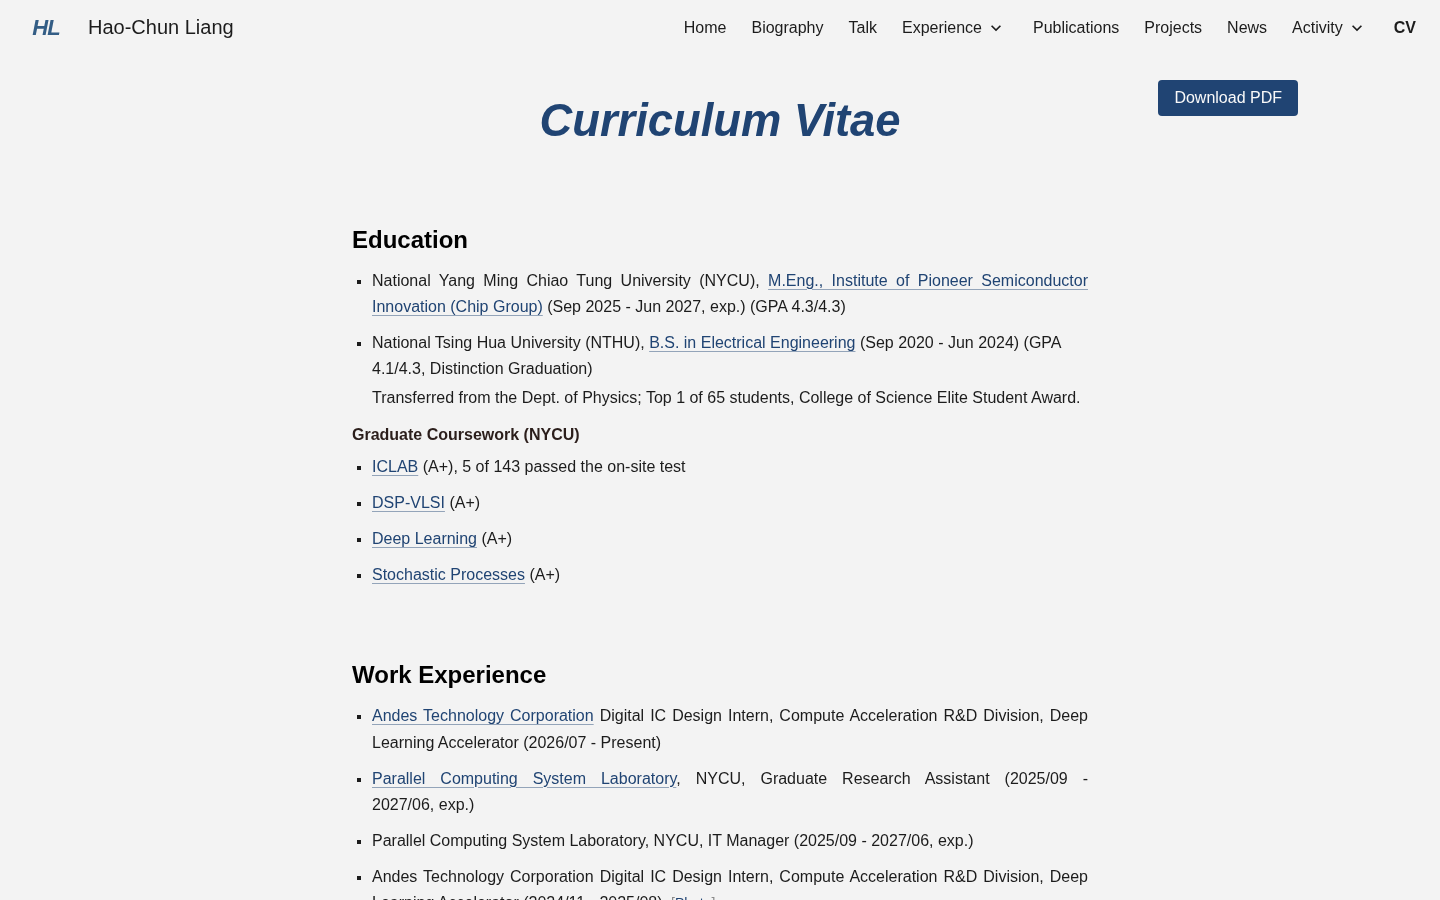
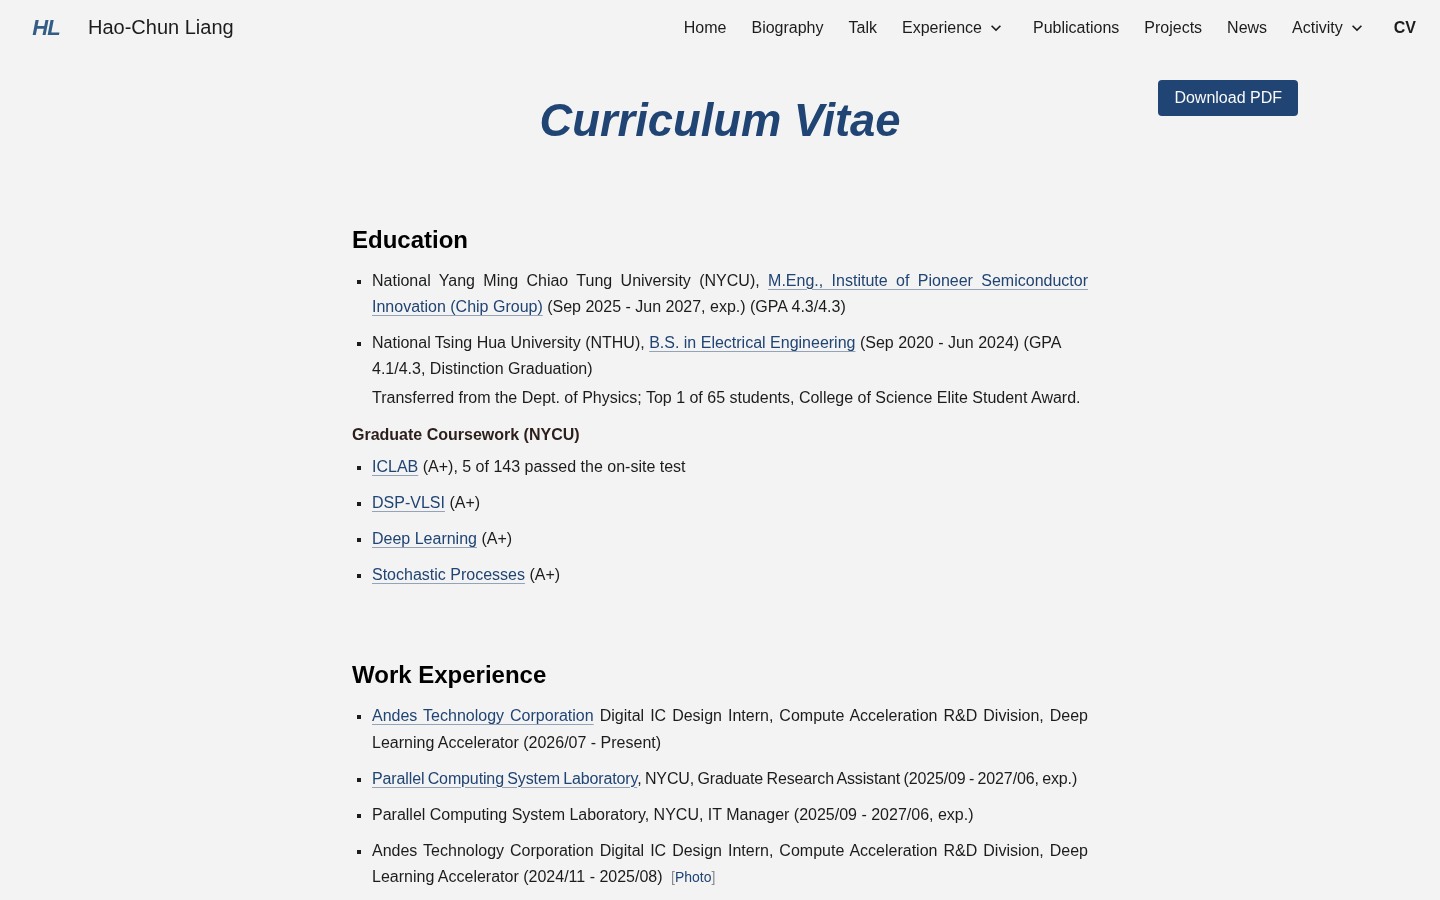
No short last lines at any window size; drop Iron Fans video and one stage photo; center Back to Home
- gsite.js: every text block whose last line fills under a third of its
  width is re-set on load and on resize: slight tightening first, balanced
  lines for short left-aligned blocks, slight loosening, then balanced lines.
  Scanned 10 widths x all pages: 0 short tails
- Dance: remove the 2017 'Iron Fans' video and hs-380 (files deleted)
- 'Back to Home' is centered again (justify rule had overridden .center)
- gsite.js v12, CSS v35

Claude-Session: https://claude.ai/code/session_01YYQQxzKC9fV2djn5XGgtNn

Changed region(s): [[0.25, 0.84, 0.75, 1.0]]

diff --git a/assets/gsite.js b/assets/gsite.js
@@ -167,6 +167,94 @@
     });
   })();
 
+  // No short last lines (owner ruling): a block whose last line fills less
+  // than a third of its width is re-set, at every window size. First try a
+  // barely visible tightening so the tail climbs onto the line above, then
+  // balanced lines for short left-aligned blocks, then a barely visible
+  // loosening (mostly word spacing) so more words carry down, and only then
+  // balanced lines (left-aligned, so justify cannot stretch them).
+  (function () {
+    var MIN = 0.34;
+    var TIGHT = [[-0.004, -0.03], [-0.008, -0.06], [-0.012, -0.09], [-0.016, -0.12]];
+    var LOOSE = [[0, 0.05], [0.003, 0.1], [0.006, 0.15], [0.01, 0.2]];
+    var BLOCK = /^(block|list-item|flex|grid|table)/;
+    var sel = 'main p, main li, main .sub, main figcaption, .identity p, .site-footer .contact p, .site-footer .copyright';
+
+    function leaf(el) {
+      if (el.closest('.site-nav, .chips, .slide, .hero')) return false;
+      for (var c = el.firstElementChild; c; c = c.nextElementSibling) {
+        if (BLOCK.test(getComputedStyle(c).display)) return false;
+      }
+      return true;
+    }
+    // Line boxes of el: [{left, right}] top to bottom.
+    function lines(el) {
+      var r = document.createRange();
+      r.selectNodeContents(el);
+      var rows = [];
+      Array.prototype.forEach.call(r.getClientRects(), function (b) {
+        if (b.width < 1) return;
+        var row = null;
+        for (var i = 0; i < rows.length; i++) {
+          if (Math.abs(rows[i].mid - (b.top + b.bottom) / 2) < b.height / 2) { row = rows[i]; break; }
+        }
+        if (!row) rows.push({ mid: (b.top + b.bottom) / 2, left: b.left, right: b.right });
+        else { row.left = Math.min(row.left, b.left); row.right = Math.max(row.right, b.right); }
+      });
+      rows.sort(function (a, b) { return a.mid - b.mid; });
+      return rows;
+    }
+    function measure(el) {
+      var cs = getComputedStyle(el), box = el.getBoundingClientRect();
+      var left = box.left + parseFloat(cs.paddingLeft), width = el.clientWidth - parseFloat(cs.paddingLeft) - parseFloat(cs.paddingRight);
+      var ls = lines(el);
+      if (ls.length < 2 || width <= 0) return { n: ls.length, ok: true };
+      var tail = (ls[ls.length - 1].right - left) / width;
+      return { n: ls.length, ok: tail >= MIN };
+    }
+    function setSpacing(el, base, d) {
+      var fs = parseFloat(getComputedStyle(el).fontSize);
+      el.style.letterSpacing = (base + d[0] * fs) + 'px';
+      el.style.wordSpacing = (d[1] * fs) + 'px';
+    }
+    function fix(el) {
+      el.style.letterSpacing = el.style.wordSpacing = el.style.textWrap = el.style.textAlign = '';
+      var m = measure(el);
+      if (m.ok) return;
+      var ls0 = parseFloat(getComputedStyle(el).letterSpacing) || 0, i, t;
+      for (i = 0; i < TIGHT.length; i++) {
+        setSpacing(el, ls0, TIGHT[i]);
+        t = measure(el);
+        if (t.n < m.n && t.ok) return;
+      }
+      // Left-aligned blocks of a few lines look most natural balanced
+      var justified = getComputedStyle(el).textAlign === 'justify';
+      if (!justified && m.n <= 4) {
+        el.style.letterSpacing = el.style.wordSpacing = '';
+        el.style.textWrap = 'balance';
+        if (measure(el).ok) return;
+        el.style.textWrap = '';
+      }
+      for (i = 0; i < LOOSE.length; i++) {
+        setSpacing(el, ls0, LOOSE[i]);
+        t = measure(el);
+        if (t.ok && t.n <= m.n + 1) return;
+      }
+      el.style.letterSpacing = el.style.wordSpacing = '';
+      el.style.textWrap = 'balance';
+      if (getComputedStyle(el).textAlign === 'justify') el.style.textAlign = 'start';
+    }
+    function run() {
+      var els = Array.prototype.filter.call(document.querySelectorAll(sel), leaf);
+      els.forEach(fix);
+    }
+    var timer;
+    function later() { clearTimeout(timer); timer = setTimeout(run, 120); }
+    if (document.fonts && document.fonts.ready) document.fonts.ready.then(run); else run();
+    window.addEventListener('load', run);
+    window.addEventListener('resize', later);
+  })();
+
   // Lightbox: photos and PDFs open in a dialog over the dimmed page.
   // Galleries get previous/next; PDFs open normally on phones, where
   // inline PDF viewing is unreliable.

diff --git a/activity/pop-dance-club/index.html b/activity/pop-dance-club/index.html
@@ -29,7 +29,7 @@
   <link rel="preconnect" href="https://fonts.googleapis.com">
   <link rel="preconnect" href="https://fonts.gstatic.com" crossorigin>
   <link rel="stylesheet" href="https://fonts.googleapis.com/css2?family=Noto+Serif+TC:wght@400;700&amp;display=swap">
-  <link rel="stylesheet" href="/assets/gsite.css?v=34">
+  <link rel="stylesheet" href="/assets/gsite.css?v=35">
 </head>
 <body>
 
@@ -164,17 +164,9 @@
         </button>
         <figcaption><strong>“現代舞畫”, my first try at a new dance style</strong><span class="yt-title">YouTube: <a href="https://www.youtube.com/watch?v=2gs8uw9oSkM" target="_blank" rel="noopener">現代舞畫</a></span></figcaption>
       </figure>
-      <figure class="video">
-        <button class="yt-facade" type="button" data-yt="7fVPnzR2eZY" aria-label="Play video: “鐵扇威揚” (Iron Fans)">
-          <img src="/images/activity/tieshan-2017.jpg" alt="" width="1280" height="720" loading="lazy">
-          <svg class="play" viewBox="0 0 68 48" aria-hidden="true"><path d="M66.5 7.7c-.8-2.9-3-5.2-5.9-6C55.3.3 34 .3 34 .3S12.7.3 7.4 1.7c-2.9.8-5.1 3.1-5.9 6C.1 13 .1 24 .1 24s0 11 1.4 16.3c.8 2.9 3 5.2 5.9 6C12.7 47.7 34 47.7 34 47.7s21.3 0 26.6-1.4c2.9-.8 5.1-3.1 5.9-6C67.9 35 67.9 24 67.9 24s0-11-1.4-16.3z" fill="#f00"/><path d="M45 24 27 14v20z" fill="#fff"/></svg>
-        </button>
-        <figcaption><strong>“鐵扇威揚” (Iron Fans)</strong><span class="yt-title">YouTube: <a href="https://www.youtube.com/watch?v=7fVPnzR2eZY" target="_blank" rel="noopener">鐵扇威揚</a></span></figcaption>
-      </figure>
     </div>
     <h3 class="group">Photos</h3>
     <div class="gallery">
-      <figure><a href="/images/activity/gallery/hs-380.jpg"><img src="/images/activity/gallery/hs-380.jpg" alt="Gango, Changhua Senior High" width="1080" height="608" loading="lazy"></a></figure>
       <figure><a href="/images/activity/gallery/hs-381.jpg"><img src="/images/activity/gallery/hs-381.jpg" alt="Gango, Changhua Senior High" width="1080" height="608" loading="lazy"></a></figure>
       <figure><a href="/images/activity/gallery/hs-391.jpg"><img src="/images/activity/gallery/hs-391.jpg" alt="Gango, Changhua Senior High" width="1080" height="1080" loading="lazy"></a></figure>
       <figure><a href="/images/activity/gallery/hs-397.jpg"><img src="/images/activity/gallery/hs-397.jpg" alt="Third place, High School Fight" width="1080" height="1080" loading="lazy"></a><figcaption>Third place, High School Fight</figcaption></figure>
@@ -209,7 +201,7 @@
   </div>
 </footer>
 
-<script src="/assets/gsite.js?v=10" defer></script>
+<script src="/assets/gsite.js?v=12" defer></script>
 <script src="/assets/pets.js?v=18" defer></script>
 </body>
 </html>

diff --git a/zh/activity/pop-dance-club/index.html b/zh/activity/pop-dance-club/index.html
@@ -29,7 +29,7 @@
   <link rel="preconnect" href="https://fonts.googleapis.com">
   <link rel="preconnect" href="https://fonts.gstatic.com" crossorigin>
   <link rel="stylesheet" href="https://fonts.googleapis.com/css2?family=Noto+Serif+TC:wght@400;700&amp;display=swap">
-  <link rel="stylesheet" href="/assets/gsite.css?v=34">
+  <link rel="stylesheet" href="/assets/gsite.css?v=35">
 </head>
 <body>
 
@@ -164,17 +164,9 @@
         </button>
         <figcaption><strong>「現代舞畫」，第一次嘗試的新舞風</strong><span class="yt-title">YouTube: <a href="https://www.youtube.com/watch?v=2gs8uw9oSkM" target="_blank" rel="noopener">現代舞畫</a></span></figcaption>
       </figure>
-      <figure class="video">
-        <button class="yt-facade" type="button" data-yt="7fVPnzR2eZY" aria-label="播放影片：「鐵扇威揚」">
-          <img src="/images/activity/tieshan-2017.jpg" alt="" width="1280" height="720" loading="lazy">
-          <svg class="play" viewBox="0 0 68 48" aria-hidden="true"><path d="M66.5 7.7c-.8-2.9-3-5.2-5.9-6C55.3.3 34 .3 34 .3S12.7.3 7.4 1.7c-2.9.8-5.1 3.1-5.9 6C.1 13 .1 24 .1 24s0 11 1.4 16.3c.8 2.9 3 5.2 5.9 6C12.7 47.7 34 47.7 34 47.7s21.3 0 26.6-1.4c2.9-.8 5.1-3.1 5.9-6C67.9 35 67.9 24 67.9 24s0-11-1.4-16.3z" fill="#f00"/><path d="M45 24 27 14v20z" fill="#fff"/></svg>
-        </button>
-        <figcaption><strong>「鐵扇威揚」</strong><span class="yt-title">YouTube: <a href="https://www.youtube.com/watch?v=7fVPnzR2eZY" target="_blank" rel="noopener">鐵扇威揚</a></span></figcaption>
-      </figure>
     </div>
     <h3 class="group">照片</h3>
     <div class="gallery">
-      <figure><a href="/images/activity/gallery/hs-380.jpg"><img src="/images/activity/gallery/hs-380.jpg" alt="彰中熱舞社 Gango" width="1080" height="608" loading="lazy"></a></figure>
       <figure><a href="/images/activity/gallery/hs-381.jpg"><img src="/images/activity/gallery/hs-381.jpg" alt="彰中熱舞社 Gango" width="1080" height="608" loading="lazy"></a></figure>
       <figure><a href="/images/activity/gallery/hs-391.jpg"><img src="/images/activity/gallery/hs-391.jpg" alt="彰中熱舞社 Gango" width="1080" height="1080" loading="lazy"></a></figure>
       <figure><a href="/images/activity/gallery/hs-397.jpg"><img src="/images/activity/gallery/hs-397.jpg" alt="High School Fight 季軍" width="1080" height="1080" loading="lazy"></a><figcaption>High School Fight 季軍</figcaption></figure>
@@ -209,7 +201,7 @@
   </div>
 </footer>
 
-<script src="/assets/gsite.js?v=10" defer></script>
+<script src="/assets/gsite.js?v=12" defer></script>
 <script src="/assets/pets.js?v=18" defer></script>
 </body>
 </html>

diff --git a/404.html b/404.html
@@ -11,7 +11,7 @@
   <link rel="preconnect" href="https://fonts.googleapis.com">
   <link rel="preconnect" href="https://fonts.gstatic.com" crossorigin>
   <link rel="stylesheet" href="https://fonts.googleapis.com/css2?family=Noto+Serif+TC:wght@400;700&amp;display=swap">
-  <link rel="stylesheet" href="/assets/gsite.css?v=34">
+  <link rel="stylesheet" href="/assets/gsite.css?v=35">
 </head>
 <body>
 <a class="skip-link" href="#main">Skip to main content</a>
@@ -70,7 +70,7 @@
     <p class="copyright">Copyright © 2024-2026 <a href="/">Hao-Chun Liang</a>; Last updated November 16, 2026; All Rights Reserved; All photos by Hao-Chun Liang unless otherwise specified</p>
   </div>
 </footer>
-<script src="/assets/gsite.js?v=10" defer></script>
+<script src="/assets/gsite.js?v=12" defer></script>
 <script src="/assets/pets.js?v=18" defer></script>
 </body>
 </html>

diff --git a/zh/index.html b/zh/index.html
@@ -30,7 +30,7 @@
   <link rel="preconnect" href="https://fonts.googleapis.com">
   <link rel="preconnect" href="https://fonts.gstatic.com" crossorigin>
   <link rel="stylesheet" href="https://fonts.googleapis.com/css2?family=Noto+Serif+TC:wght@400;700&amp;display=swap">
-  <link rel="stylesheet" href="/assets/gsite.css?v=34">
+  <link rel="stylesheet" href="/assets/gsite.css?v=35">
 <script>
 /* Old single-page links (/#unitrac, /#education, ...) now live on their own pages. */
 (function () {
@@ -206,7 +206,7 @@
   </div>
 </footer>
 
-<script src="/assets/gsite.js?v=10" defer></script>
+<script src="/assets/gsite.js?v=12" defer></script>
 <script src="/assets/pets.js?v=18" defer></script>
 </body>
 </html>

diff --git a/index.html b/index.html
@@ -30,7 +30,7 @@
   <link rel="preconnect" href="https://fonts.googleapis.com">
   <link rel="preconnect" href="https://fonts.gstatic.com" crossorigin>
   <link rel="stylesheet" href="https://fonts.googleapis.com/css2?family=Noto+Serif+TC:wght@400;700&amp;display=swap">
-  <link rel="stylesheet" href="/assets/gsite.css?v=34">
+  <link rel="stylesheet" href="/assets/gsite.css?v=35">
   <script type="application/ld+json">
   {
     "@context": "https://schema.org",
@@ -234,7 +234,7 @@
   </div>
 </footer>
 
-<script src="/assets/gsite.js?v=10" defer></script>
+<script src="/assets/gsite.js?v=12" defer></script>
 <script src="/assets/pets.js?v=18" defer></script>
 </body>
 </html>

diff --git a/activity/martial-arts/index.html b/activity/martial-arts/index.html
@@ -29,7 +29,7 @@
   <link rel="preconnect" href="https://fonts.googleapis.com">
   <link rel="preconnect" href="https://fonts.gstatic.com" crossorigin>
   <link rel="stylesheet" href="https://fonts.googleapis.com/css2?family=Noto+Serif+TC:wght@400;700&amp;display=swap">
-  <link rel="stylesheet" href="/assets/gsite.css?v=34">
+  <link rel="stylesheet" href="/assets/gsite.css?v=35">
 </head>
 <body>
 
@@ -114,7 +114,7 @@
   </div>
 </footer>
 
-<script src="/assets/gsite.js?v=10" defer></script>
+<script src="/assets/gsite.js?v=12" defer></script>
 <script src="/assets/pets.js?v=18" defer></script>
 </body>
 </html>

diff --git a/activity/pcs-lab/index.html b/activity/pcs-lab/index.html
@@ -29,7 +29,7 @@
   <link rel="preconnect" href="https://fonts.googleapis.com">
   <link rel="preconnect" href="https://fonts.gstatic.com" crossorigin>
   <link rel="stylesheet" href="https://fonts.googleapis.com/css2?family=Noto+Serif+TC:wght@400;700&amp;display=swap">
-  <link rel="stylesheet" href="/assets/gsite.css?v=34">
+  <link rel="stylesheet" href="/assets/gsite.css?v=35">
 </head>
 <body>
 
@@ -106,7 +106,7 @@
   </div>
 </footer>
 
-<script src="/assets/gsite.js?v=10" defer></script>
+<script src="/assets/gsite.js?v=12" defer></script>
 <script src="/assets/pets.js?v=18" defer></script>
 </body>
 </html>

diff --git a/activity/travel/index.html b/activity/travel/index.html
@@ -29,7 +29,7 @@
   <link rel="preconnect" href="https://fonts.googleapis.com">
   <link rel="preconnect" href="https://fonts.gstatic.com" crossorigin>
   <link rel="stylesheet" href="https://fonts.googleapis.com/css2?family=Noto+Serif+TC:wght@400;700&amp;display=swap">
-  <link rel="stylesheet" href="/assets/gsite.css?v=34">
+  <link rel="stylesheet" href="/assets/gsite.css?v=35">
 </head>
 <body>
 
@@ -130,7 +130,7 @@
   </div>
 </footer>
 
-<script src="/assets/gsite.js?v=10" defer></script>
+<script src="/assets/gsite.js?v=12" defer></script>
 <script src="/assets/pets.js?v=18" defer></script>
 </body>
 </html>

diff --git a/biography/index.html b/biography/index.html
@@ -29,7 +29,7 @@
   <link rel="preconnect" href="https://fonts.googleapis.com">
   <link rel="preconnect" href="https://fonts.gstatic.com" crossorigin>
   <link rel="stylesheet" href="https://fonts.googleapis.com/css2?family=Noto+Serif+TC:wght@400;700&amp;display=swap">
-  <link rel="stylesheet" href="/assets/gsite.css?v=34">
+  <link rel="stylesheet" href="/assets/gsite.css?v=35">
 </head>
 <body>
 
@@ -145,7 +145,7 @@
   </div>
 </footer>
 
-<script src="/assets/gsite.js?v=10" defer></script>
+<script src="/assets/gsite.js?v=12" defer></script>
 <script src="/assets/pets.js?v=18" defer></script>
 </body>
 </html>

diff --git a/cv/index.html b/cv/index.html
@@ -26,7 +26,7 @@
   <link rel="preconnect" href="https://fonts.googleapis.com">
   <link rel="preconnect" href="https://fonts.gstatic.com" crossorigin>
   <link rel="stylesheet" href="https://fonts.googleapis.com/css2?family=Noto+Serif+TC:wght@400;700&amp;display=swap">
-  <link rel="stylesheet" href="/assets/gsite.css?v=34">
+  <link rel="stylesheet" href="/assets/gsite.css?v=35">
 </head>
 <body>
 
@@ -164,7 +164,7 @@
   </div>
 </footer>
 
-<script src="/assets/gsite.js?v=10" defer></script>
+<script src="/assets/gsite.js?v=12" defer></script>
 <script src="/assets/pets.js?v=18" defer></script>
 </body>
 </html>

diff --git a/experience/awards/index.html b/experience/awards/index.html
@@ -29,7 +29,7 @@
   <link rel="preconnect" href="https://fonts.googleapis.com">
   <link rel="preconnect" href="https://fonts.gstatic.com" crossorigin>
   <link rel="stylesheet" href="https://fonts.googleapis.com/css2?family=Noto+Serif+TC:wght@400;700&amp;display=swap">
-  <link rel="stylesheet" href="/assets/gsite.css?v=34">
+  <link rel="stylesheet" href="/assets/gsite.css?v=35">
 </head>
 <body>
 
@@ -126,7 +126,7 @@
   </div>
 </footer>
 
-<script src="/assets/gsite.js?v=10" defer></script>
+<script src="/assets/gsite.js?v=12" defer></script>
 <script src="/assets/pets.js?v=18" defer></script>
 </body>
 </html>
